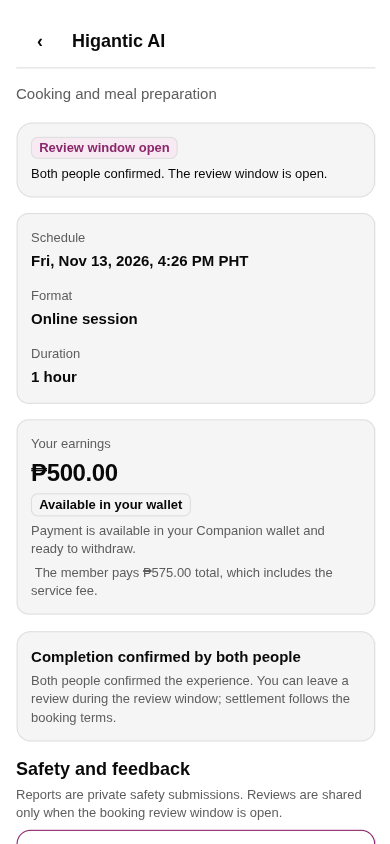
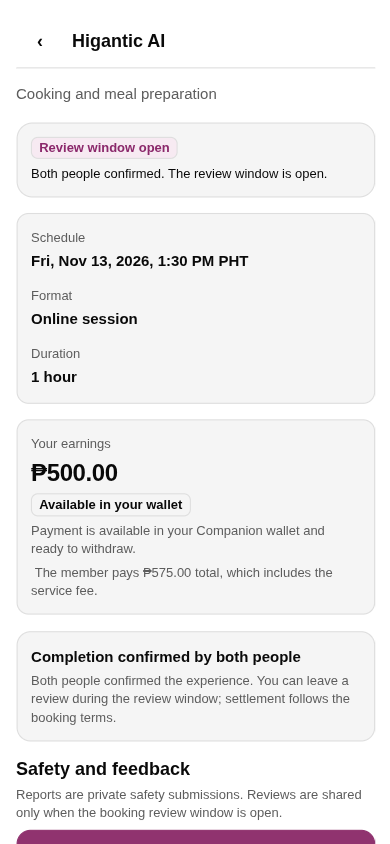
fix(mobile): close mobile council evidence and action gaps
- render a truthful collapsed evidence summary instead of a loading line
- put review above the evidence record and make it the filled action
- neutral sign-out across onboarding, settings, and account sheet
- keep dark and requested states current

Changed region(s): [[0.0308, 0.9858, 0.9538, 1.0], [0.4, 0.3081, 0.4615, 0.3389]]

diff --git a/apps/mobile/src/features/booking/BookingSafetyActions.tsx b/apps/mobile/src/features/booking/BookingSafetyActions.tsx
@@ -170,7 +170,7 @@ export function BookingSafetyActions({ bookingId, status, viewerHasReviewed, vie
         <AppText variant="heading">Safety and feedback</AppText>
         <AppText variant="caption" color={theme.colors.textMuted}>Reports are private safety submissions. Reviews are shared only when the booking review window is open.</AppText>
       </View>
-      {canReview ? <ActionButton label="Write a review" onPress={() => open('review')} secondary /> : null}
+      {canReview ? <ActionButton label="Write a review" onPress={() => open('review')} intent="social" /> : null}
       {publishedReviewId ? (
         <ActionButton
           label="View your review"
@@ -181,7 +181,7 @@ export function BookingSafetyActions({ bookingId, status, viewerHasReviewed, vie
       ) : null}
       {reportSubmitted
         ? <ActionButton label="Report sent" onPress={() => undefined} disabled secondary />
-        : <ActionButton label="Report this booking" onPress={() => open('report')} secondary />}
+        : <ActionButton label="Report this booking" onPress={() => open('report')} intent="danger" secondary />}
       {message ? <AppText accessibilityLiveRegion="polite" variant="caption" color={theme.colors.textMuted}>{message}</AppText> : null}
       <Dialog
         visible={form !== null}

diff --git a/apps/mobile/src/design-system/organisms/BookingEvidencePresentation.tsx b/apps/mobile/src/design-system/organisms/BookingEvidencePresentation.tsx
@@ -4,7 +4,7 @@ import { Pressable, StyleSheet, View } from 'react-native'
 import { ActionButton } from '@/design-system/atoms/ActionButton'
 import { AppText } from '@/design-system/atoms/Typography'
 import { ConfirmationDialog } from '@/design-system/molecules/ConfirmationDialog'
-import { evidenceDecisionCopy, evidenceSharedRowCopy, type EvidenceDecision, type EvidenceSharedRow } from '@/data/evidence'
+import { evidenceClosedSummary, evidenceDecisionCopy, evidenceSharedRowCopy, type EvidenceDecision, type EvidenceSharedRow } from '@/data/evidence'
 import { useAppTheme } from '@/theme/ThemeProvider'
 import { density } from '@/theme/tokens'
 
@@ -95,9 +95,9 @@ export function BookingEvidencePresentation({
               Both people can see whether each decision exists. Images stay private to authorized safety review.
             </AppText>
           </View>
-        ) : (
+        ) : loading ? (
           <AppText color={theme.colors.textMuted}>Loading the shared safety record.</AppText>
-        )}
+        ) : null}
 
         {!loading && !canDecide ? (
           <AppText variant="caption" color={theme.colors.textMuted}>

diff --git a/apps/mobile/tests/unit/safety/evidence.test.ts b/apps/mobile/tests/unit/safety/evidence.test.ts
@@ -1,4 +1,4 @@
-import {
+import { evidenceClosedSummary, 
   MAX_EVIDENCE_IMAGE_BYTES,
   evidenceAssetToArrayBuffer,
   evidenceDecisionCopy,
@@ -7,6 +7,12 @@ import {
 } from '@/data/evidence'
 
 describe('booking evidence helpers', () => {
+  it('summarizes a closed record without a loading or sticky-warning line', () => {
+    expect(evidenceClosedSummary('uploaded')).toContain('Private image saved')
+    expect(evidenceClosedSummary('skipped')).toBe('No image added.')
+    expect(evidenceClosedSummary(undefined)).toBe('No evidence decision recorded.')
+  })
+
   it('uses truthful role, privacy, and decision copy', () => {
     expect(evidenceDecisionCopy('companion_start', 'uploaded')).toEqual({ label: 'Start evidence', detail: 'Private image saved for authorized safety review only.' })
     expect(evidenceDecisionCopy('member_end', 'skipped')).toEqual({ label: 'End evidence', detail: 'No image added.' })

diff --git a/apps/mobile/src/features/account/AccountSheet.tsx b/apps/mobile/src/features/account/AccountSheet.tsx
@@ -119,9 +119,9 @@ export function AccountSheetContent({
           disabled={signingOut}
           onPress={onSignOut}
           style={({ pressed }) => [styles.row, styles.signOutRow, pressed && styles.pressed]}>
-          <AppIcon name="log-out-outline" color={theme.colors.danger} size={22} />
+          <AppIcon name="log-out-outline" color={theme.colors.text} size={22} />
           <View style={styles.rowCopy}>
-            <AppText variant="bodyStrong" color={theme.colors.danger}>{signingOut ? 'Signing out' : 'Sign out'}</AppText>
+            <AppText variant="bodyStrong" color={theme.colors.text}>{signingOut ? 'Signing out' : 'Sign out'}</AppText>
             <AppText variant="caption" color={theme.colors.textMuted}>End this session on this device</AppText>
           </View>
         </Pressable>

diff --git a/apps/mobile/src/features/settings/SettingsContent.tsx b/apps/mobile/src/features/settings/SettingsContent.tsx
@@ -124,7 +124,7 @@ export function SettingsContent({
       </SettingsGroup>
 
       <SettingsGroup title="Session">
-        <SettingsRow icon="log-out-outline" label={signingOut ? 'Signing out' : 'Sign out'} detail="End this session on this device" danger onPress={signingOut ? undefined : onSignOut} />
+        <SettingsRow icon="log-out-outline" label={signingOut ? 'Signing out' : 'Sign out'} detail="End this session on this device" onPress={signingOut ? undefined : onSignOut} />
         {signOutError ? <AppText accessibilityRole="alert" variant="caption" color={theme.colors.danger}>Sign out could not be completed. Please try again.</AppText> : null}
       </SettingsGroup>
     </Screen>

diff --git a/apps/mobile/src/data/evidence.ts b/apps/mobile/src/data/evidence.ts
@@ -18,6 +18,12 @@ export function evidenceDecisionCopy(role: 'companion_start' | 'member_end', dec
   return { label, detail: 'Upload one private image, or continue without evidence.' }
 }
 
+export function evidenceClosedSummary(decision: EvidenceDecision) {
+  if (decision === 'uploaded') return 'Private image saved for authorized safety review only.'
+  if (decision === 'skipped') return 'No image added.'
+  return 'No evidence decision recorded.'
+}
+
 export type EvidenceSharedRow = {
   role: 'companion_start' | 'member_end'
   isViewer: boolean
